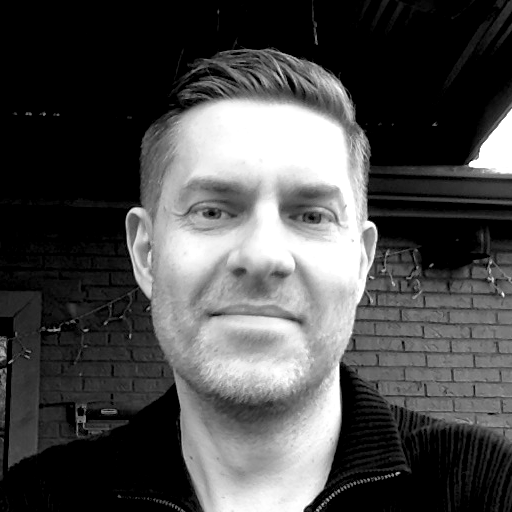
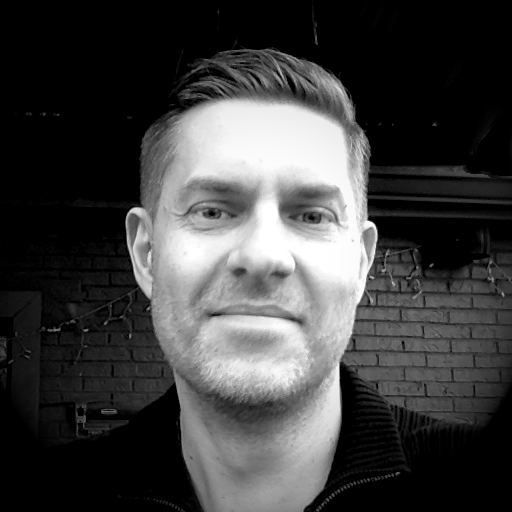
Style tweaks
Vignette on my pic; remove footer col offsets; attempt to override header container class top margin

diff --git a/index.html b/index.html
@@ -18,14 +18,14 @@ bigimg:
 ---
   -->
 
-  <div class="container" role="main" padding-top=-30px margin-top=-30px>
+  <div class="container nopad_container" role="main">
     <div class="row">
       <div class="col-lg-8 col-md-10">
         <div class="main-explain-area jumbotron">
     <p><strong>Do you need help understanding your next steps with data?
       Where are you on the path to data maturity in your business?</strong></p>
     <p><ul>
-      <li>How to interpret "data-driven" for <i>your</i> business
+      <li>How to interpret &ldquo;data-driven&rdquo; for <i>your</i> business
       <li>How to connect engineering and product development with leadership
       <li>How to make your business intelligence more impactful
       <li>How and when to hire for your emerging data needs
@@ -44,24 +44,6 @@ bigimg:
   </div>
 
 <hr>
-
-<!--
-<div class="posts">
-  {% for post in paginator.posts %}
-  <div class="post">
-    <h1 class="post-title">
-      <a href="{{ post.url }}">
-        {{ post.title }}
-      </a>
-    </h1>
-
-    <span class="post-date">{{ post.date | date_to_string }}</span>
-
-    {{ post.content }}
-  </div>
-  {% endfor %}
-</div>
--->
 
 <div class="posts-list">
   {% for post in paginator.posts %}

diff --git a/_includes/footer.html b/_includes/footer.html
@@ -1,7 +1,7 @@
 <footer>
   <div class="container beautiful-jekyll-footer">
     <div class="row">
-      <div class="col-lg-8 col-lg-offset-2 col-md-10 col-md-offset-1">
+      <div class="col-lg-8 col-md-10">
         <ul class="list-inline text-center footer-links">
           {%- for link in site.social-network-links -%}
             {%- assign curkey = link[0] -%}

diff --git a/css/index.css b/css/index.css
@@ -11,6 +11,10 @@
   }
 }
 
+.nopad_container {
+  margin-top: -30px
+}
+
 .list-filters {
   font-family: 'Open Sans', 'Helvetica Neue', Helvetica, Arial, sans-serif;
   font-size: 18px;
